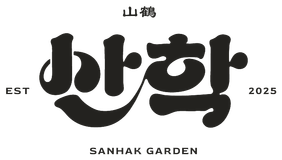
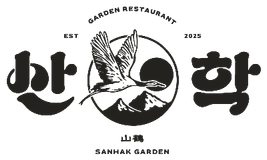
산학가든 로고를 학 엠블럼이 있는 완성형으로 교체
- 받은 산학.png에서 다시 추출 (원은 글자와 같은 진하기, 학은 바탕이 비치게), 크기를 조금 키움

diff --git a/index.html b/index.html
@@ -1393,7 +1393,7 @@ a.sns:hover { color: #000; background: rgba(35, 34, 31, .06); }
   <!-- 함께한 브랜드 (owner 2026-10-28): the brands the team worked for roll slowly by between 회사 소개 and the portfolio
        (GEN:partners, final/svg/partners.mjs from final/data/partners.mjs); names until the owner sends logo files -->
   <section class="partners" aria-labelledby="pt-title">
-    <div class="wrap pt-wrap"><!--GEN:partners--><p class="pt-title" id="pt-title">함께한 브랜드</p><ul class="sr-only"><li>랑데자뷰</li><li>베이비하우스</li><li>산학가든</li><li>오프약국</li><li>샌두</li><li>그랜마스</li><li>마네드네</li><li>벤탄빌라</li><li>서울현방</li><li>큐어랩 약국</li><li>더 픽</li></ul><div class="pt-view" aria-hidden="true"><div class="pt-row"><ul class="pt-group"><li><img src="images/partners/rendejavous.png" alt="" style="--s:1.05" loading="lazy" decoding="async"></li><li><img src="images/partners/babyhaus.png" alt="" style="--s:1.1" loading="lazy" decoding="async"></li><li><img src="images/partners/sanhak.png" alt="" style="--s:1.45" loading="lazy" decoding="async"></li><li><span class="pt-name">오프약국</span></li><li><span class="pt-name">샌두</span></li><li><img src="images/partners/grandmas.png" alt="" style="--s:1.75" loading="lazy" decoding="async"></li><li><img src="images/partners/manednai.png" alt="" style="--s:1.25" loading="lazy" decoding="async"></li><li><img src="images/partners/bentanvilla.png" alt="" style="--s:1.7" loading="lazy" decoding="async"></li><li><img src="images/partners/seoulhyunbang.png" alt="" style="--s:1.6" loading="lazy" decoding="async"></li><li><span class="pt-name">큐어랩 약국</span></li><li><span class="pt-name">더 픽</span></li><li class="pt-rep"><img src="images/partners/rendejavous.png" alt="" style="--s:1.05" loading="lazy" decoding="async"></li><li class="pt-rep"><img src="images/partners/babyhaus.png" alt="" style="--s:1.1" loading="lazy" decoding="async"></li><li class="pt-rep"><img src="images/partners/sanhak.png" alt="" style="--s:1.45" loading="lazy" decoding="async"></li><li class="pt-rep"><span class="pt-name">오프약국</span></li><li class="pt-rep"><span class="pt-name">샌두</span></li><li class="pt-rep"><img src="images/partners/grandmas.png" alt="" style="--s:1.75" loading="lazy" decoding="async"></li><li class="pt-rep"><img src="images/partners/manednai.png" alt="" style="--s:1.25" loading="lazy" decoding="async"></li><li class="pt-rep"><img src="images/partners/bentanvilla.png" alt="" style="--s:1.7" loading="lazy" decoding="async"></li><li class="pt-rep"><img src="images/partners/seoulhyunbang.png" alt="" style="--s:1.6" loading="lazy" decoding="async"></li><li class="pt-rep"><span class="pt-name">큐어랩 약국</span></li><li class="pt-rep"><span class="pt-name">더 픽</span></li></ul><ul class="pt-group"><li><img src="images/partners/rendejavous.png" alt="" style="--s:1.05" loading="lazy" decoding="async"></li><li><img src="images/partners/babyhaus.png" alt="" style="--s:1.1" loading="lazy" decoding="async"></li><li><img src="images/partners/sanhak.png" alt="" style="--s:1.45" loading="lazy" decoding="async"></li><li><span class="pt-name">오프약국</span></li><li><span class="pt-name">샌두</span></li><li><img src="images/partners/grandmas.png" alt="" style="--s:1.75" loading="lazy" decoding="async"></li><li><img src="images/partners/manednai.png" alt="" style="--s:1.25" loading="lazy" decoding="async"></li><li><img src="images/partners/bentanvilla.png" alt="" style="--s:1.7" loading="lazy" decoding="async"></li><li><img src="images/partners/seoulhyunbang.png" alt="" style="--s:1.6" loading="lazy" decoding="async"></li><li><span class="pt-name">큐어랩 약국</span></li><li><span class="pt-name">더 픽</span></li><li class="pt-rep"><img src="images/partners/rendejavous.png" alt="" style="--s:1.05" loading="lazy" decoding="async"></li><li class="pt-rep"><img src="images/partners/babyhaus.png" alt="" style="--s:1.1" loading="lazy" decoding="async"></li><li class="pt-rep"><img src="images/partners/sanhak.png" alt="" style="--s:1.45" loading="lazy" decoding="async"></li><li class="pt-rep"><span class="pt-name">오프약국</span></li><li class="pt-rep"><span class="pt-name">샌두</span></li><li class="pt-rep"><img src="images/partners/grandmas.png" alt="" style="--s:1.75" loading="lazy" decoding="async"></li><li class="pt-rep"><img src="images/partners/manednai.png" alt="" style="--s:1.25" loading="lazy" decoding="async"></li><li class="pt-rep"><img src="images/partners/bentanvilla.png" alt="" style="--s:1.7" loading="lazy" decoding="async"></li><li class="pt-rep"><img src="images/partners/seoulhyunbang.png" alt="" style="--s:1.6" loading="lazy" decoding="async"></li><li class="pt-rep"><span class="pt-name">큐어랩 약국</span></li><li class="pt-rep"><span class="pt-name">더 픽</span></li></ul></div></div><!--/GEN:partners--></div>
+    <div class="wrap pt-wrap"><!--GEN:partners--><p class="pt-title" id="pt-title">함께한 브랜드</p><ul class="sr-only"><li>랑데자뷰</li><li>베이비하우스</li><li>산학가든</li><li>오프약국</li><li>샌두</li><li>그랜마스</li><li>마네드네</li><li>벤탄빌라</li><li>서울현방</li><li>큐어랩 약국</li><li>더 픽</li></ul><div class="pt-view" aria-hidden="true"><div class="pt-row"><ul class="pt-group"><li><img src="images/partners/rendejavous.png" alt="" style="--s:1.05" loading="lazy" decoding="async"></li><li><img src="images/partners/babyhaus.png" alt="" style="--s:1.1" loading="lazy" decoding="async"></li><li><img src="images/partners/sanhak.png" alt="" style="--s:1.55" loading="lazy" decoding="async"></li><li><span class="pt-name">오프약국</span></li><li><span class="pt-name">샌두</span></li><li><img src="images/partners/grandmas.png" alt="" style="--s:1.75" loading="lazy" decoding="async"></li><li><img src="images/partners/manednai.png" alt="" style="--s:1.25" loading="lazy" decoding="async"></li><li><img src="images/partners/bentanvilla.png" alt="" style="--s:1.7" loading="lazy" decoding="async"></li><li><img src="images/partners/seoulhyunbang.png" alt="" style="--s:1.6" loading="lazy" decoding="async"></li><li><span class="pt-name">큐어랩 약국</span></li><li><span class="pt-name">더 픽</span></li><li class="pt-rep"><img src="images/partners/rendejavous.png" alt="" style="--s:1.05" loading="lazy" decoding="async"></li><li class="pt-rep"><img src="images/partners/babyhaus.png" alt="" style="--s:1.1" loading="lazy" decoding="async"></li><li class="pt-rep"><img src="images/partners/sanhak.png" alt="" style="--s:1.55" loading="lazy" decoding="async"></li><li class="pt-rep"><span class="pt-name">오프약국</span></li><li class="pt-rep"><span class="pt-name">샌두</span></li><li class="pt-rep"><img src="images/partners/grandmas.png" alt="" style="--s:1.75" loading="lazy" decoding="async"></li><li class="pt-rep"><img src="images/partners/manednai.png" alt="" style="--s:1.25" loading="lazy" decoding="async"></li><li class="pt-rep"><img src="images/partners/bentanvilla.png" alt="" style="--s:1.7" loading="lazy" decoding="async"></li><li class="pt-rep"><img src="images/partners/seoulhyunbang.png" alt="" style="--s:1.6" loading="lazy" decoding="async"></li><li class="pt-rep"><span class="pt-name">큐어랩 약국</span></li><li class="pt-rep"><span class="pt-name">더 픽</span></li></ul><ul class="pt-group"><li><img src="images/partners/rendejavous.png" alt="" style="--s:1.05" loading="lazy" decoding="async"></li><li><img src="images/partners/babyhaus.png" alt="" style="--s:1.1" loading="lazy" decoding="async"></li><li><img src="images/partners/sanhak.png" alt="" style="--s:1.55" loading="lazy" decoding="async"></li><li><span class="pt-name">오프약국</span></li><li><span class="pt-name">샌두</span></li><li><img src="images/partners/grandmas.png" alt="" style="--s:1.75" loading="lazy" decoding="async"></li><li><img src="images/partners/manednai.png" alt="" style="--s:1.25" loading="lazy" decoding="async"></li><li><img src="images/partners/bentanvilla.png" alt="" style="--s:1.7" loading="lazy" decoding="async"></li><li><img src="images/partners/seoulhyunbang.png" alt="" style="--s:1.6" loading="lazy" decoding="async"></li><li><span class="pt-name">큐어랩 약국</span></li><li><span class="pt-name">더 픽</span></li><li class="pt-rep"><img src="images/partners/rendejavous.png" alt="" style="--s:1.05" loading="lazy" decoding="async"></li><li class="pt-rep"><img src="images/partners/babyhaus.png" alt="" style="--s:1.1" loading="lazy" decoding="async"></li><li class="pt-rep"><img src="images/partners/sanhak.png" alt="" style="--s:1.55" loading="lazy" decoding="async"></li><li class="pt-rep"><span class="pt-name">오프약국</span></li><li class="pt-rep"><span class="pt-name">샌두</span></li><li class="pt-rep"><img src="images/partners/grandmas.png" alt="" style="--s:1.75" loading="lazy" decoding="async"></li><li class="pt-rep"><img src="images/partners/manednai.png" alt="" style="--s:1.25" loading="lazy" decoding="async"></li><li class="pt-rep"><img src="images/partners/bentanvilla.png" alt="" style="--s:1.7" loading="lazy" decoding="async"></li><li class="pt-rep"><img src="images/partners/seoulhyunbang.png" alt="" style="--s:1.6" loading="lazy" decoding="async"></li><li class="pt-rep"><span class="pt-name">큐어랩 약국</span></li><li class="pt-rep"><span class="pt-name">더 픽</span></li></ul></div></div><!--/GEN:partners--></div>
   </section>
 
   <section class="sec sec-stone" id="portfolio" aria-labelledby="pf-title">
